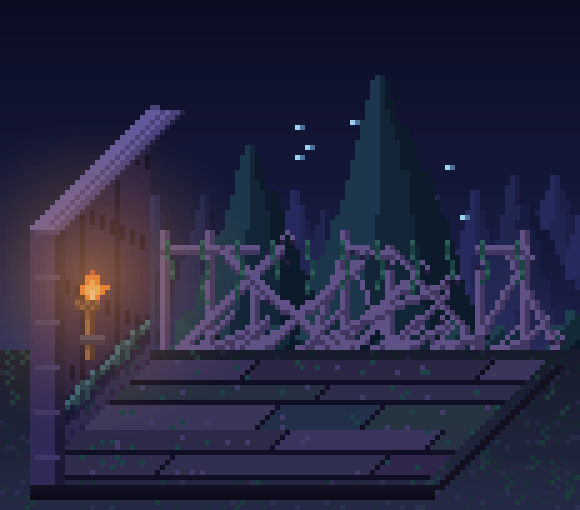
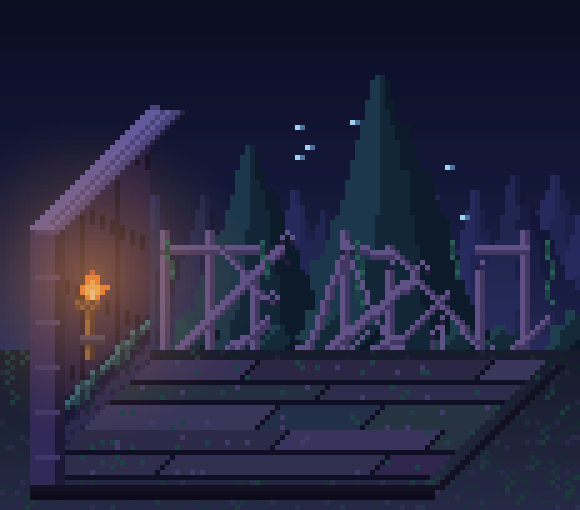
Balcony forest: tone down fence destruction (fewer beams/debris/vines)
Claude-Session: https://claude.ai/code/session_01FPZSaKiVNU2zED737yZX4w

Changed region(s): [[0.3103, 0.4706, 0.9931, 0.7059], [0.3414, 0.4706, 0.4966, 0.5882]]

diff --git a/tools/render_balcony_forest.py b/tools/render_balcony_forest.py
@@ -77,17 +77,16 @@ def main():
     jag(g6, int(by) - 5, 2); jag(g6 + 2, int(by) - 8, 2)
     beam(posts[7] + 4, int(by), posts[7] + 14, int(by - 9), 2)                                           # 쓰러져 다른 기둥에 기댄 널빤지
     for k in range(5): put(posts[2] + 3 + k, int(by - RAIL + 4 + k // 2), WOODD)                          # 부러진 기둥 옆 갈라진 파편
-    # 더 극적으로: 울타리 전체가 무너져 얽힌 바리케이드(한눈에 지나갈 수 없게). 굵은 대각 들보, 빽빽한 잔해 더미, 갈라진 끝, 덩굴
+    # 무너진 울타리: 굵은 대각 들보 셋, 드문 잔해, 갈라진 끝, 덩굴(너무 지저분하지 않게 절제)
     hb = int(by)
-    for xa, ya, xb2, yb2, th in ((posts[0], hb, posts[2] + 6, hb - RAIL + 2, 3), (posts[2], hb - 2, posts[4] + 4, hb - RAIL + 5, 3), (posts[1] + 4, hb - RAIL + 4, posts[3] + 8, hb - 3, 3),
-                                 (posts[3] + 2, hb, posts[5] + 6, hb - RAIL + 8, 3), (posts[5], hb - RAIL + 3, posts[7] + 2, hb - 1, 3), (posts[6] + 6, hb, posts[8], hb - RAIL + 6, 3),
-                                 (posts[4] - 2, hb - 6, posts[6] + 3, hb - RAIL + 10, 2), (posts[7] + 6, hb - RAIL + 5, posts[8] + 6, hb - 4, 2)):
+    for xa, ya, xb2, yb2, th in ((posts[0], hb, posts[2] + 6, hb - RAIL + 2, 3), (posts[3] + 2, hb, posts[5] + 6, hb - RAIL + 8, 3),
+                                 (posts[5], hb - RAIL + 3, posts[7] + 2, hb - 1, 3)):
         beam(xa, ya, xb2, yb2, th); jag(xb2, yb2, 3)
     rr = random.Random(44)
-    for k in range(34):                                                  # 바닥에 쌓인 부러진 널빤지 더미(울타리 아래 전체)
+    for k in range(9):                                                   # 바닥에 쌓인 부러진 널빤지 더미(울타리 아래 전체)
         x0 = rr.randrange(bx0, bx1 - 4); y0 = hb - rr.randrange(0, 4); ln = rr.randrange(5, 12)
         ang = rr.choice((-.9, -.5, -.2, .2, .5, .9)); beam(x0, y0, x0 + int(ln), y0 - int(ln * abs(ang) * 1.1) - 1, rr.choice((1, 2)))
-    for x in range(bx0 + 3, bx1, 7):                                     # 걸린 덩굴(청록)
+    for x in range(bx0 + 3, bx1, 19):                                    # 걸린 덩굴(청록)
         for yy in range(int(hb - RAIL + 2), int(hb - RAIL + 2 + rr.randrange(8, 16))): put(x + (yy // 4) % 2, yy, (30, 70, 64) if yy % 3 else (46, 96, 84))
     # 땅: 숲 바닥이 지평선 아래 전체에 이어진다(판 아래·앞·오른쪽으로 계속): 흙 + 이끼 + 풀 + 가는 길
     gr = random.Random(9)
